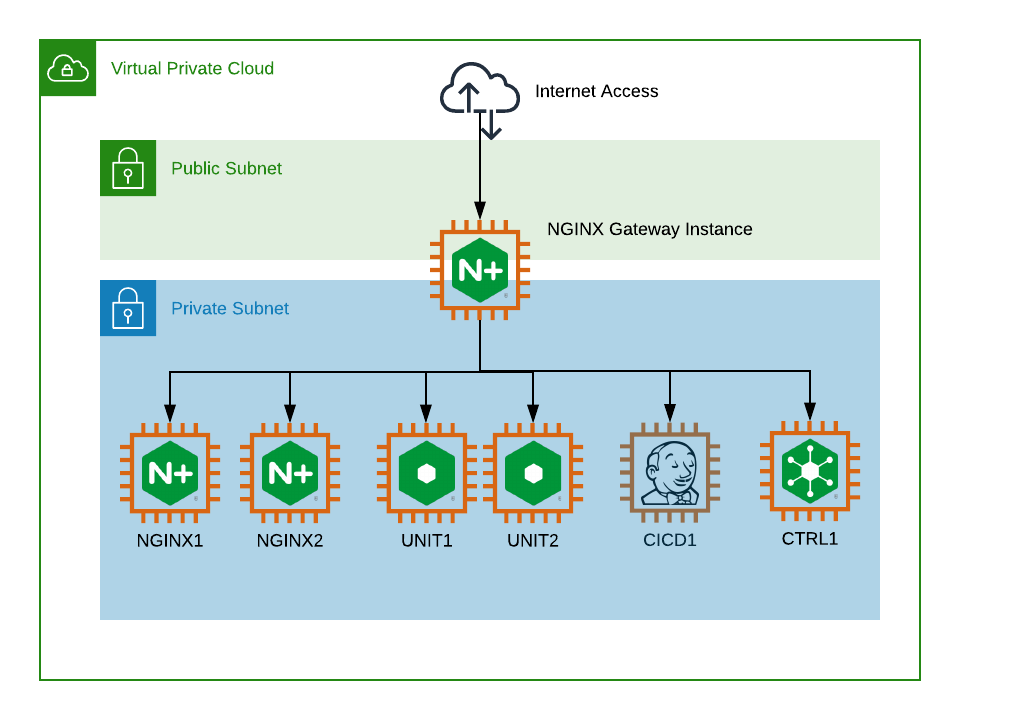
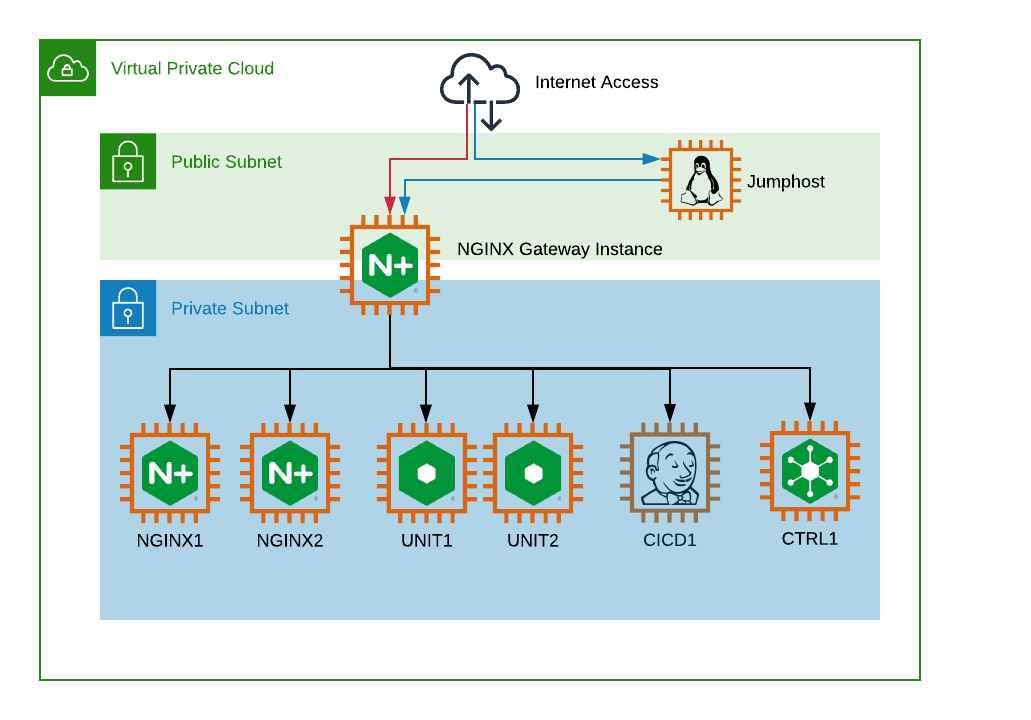
mv diagram to img folder

Changed region(s): [[0.0931, 0.0611, 0.8691, 0.4583], [0.1552, 0.4889, 0.7759, 0.5194]]

diff --git a/workdir/html/task0.html b/workdir/html/task0.html
@@ -443,7 +443,13 @@ body.book #toc,body.book #preamble,body.book h1.sect0,body.book .sect1>h2{page-b
 <div id="toctitle">Table of Contents</div>
 <ul class="sectlevel1">
 <li><a href="#_0_1_introduction">0.1 Introduction</a></li>
-<li><a href="#_0_2_getting_shell_access">0.2 Getting Shell Access</a></li>
+<li><a href="#_0_2_getting_access">0.2 Getting Access</a>
+<ul class="sectlevel2">
+<li><a href="#_0_2_1_direct_access">0.2.1 Direct Access</a></li>
+<li><a href="#_0_2_2_jumphost_access">0.2.2 Jumphost Access</a></li>
+</ul>
+</li>
+<li><a href="#_0_3_begin">0.3 Begin</a></li>
 </ul>
 </div>
 </div>
@@ -484,6 +490,11 @@ task we&#8217;ll cover Ansible basics, but first lets take a look at the environ
 with a public interface in a routeable public network, and a secondary inteface in a private network.</p>
 </div>
 <div class="paragraph">
+<p>You can either access the gateway directly using SSH and HTTPS, or if that is restricted you may access
+using RDP to the jumphost. The RDP password is the same as the Basic-Auth password used to access this
+site, and the username is <code>ec2-user</code>.</p>
+</div>
+<div class="paragraph">
 <p>All other machines in the course reside in the private network and will be accessed through the NGINX
 Plus instance running on the gateway.</p>
 </div>
@@ -494,12 +505,30 @@ with it&#8217;s hostname and password.</p>
 </div>
 </div>
 <div class="sect1">
-<h2 id="_0_2_getting_shell_access"><a class="link" href="#_0_2_getting_shell_access">0.2 Getting Shell Access</a></h2>
+<h2 id="_0_2_getting_access"><a class="link" href="#_0_2_getting_access">0.2 Getting Access</a></h2>
 <div class="sectionbody">
+<div class="sect2">
+<h3 id="_0_2_1_direct_access"><a class="link" href="#_0_2_1_direct_access">0.2.1 Direct Access</a></h3>
 <div class="paragraph">
 <p>The private key for gaining access to your workshop can be downloaded <a href="/secrets/">Here</a>
 You should find the SSH private key in both OpenSSH PEM and Putty PPK file formats.</p>
 </div>
+</div>
+<div class="sect2">
+<h3 id="_0_2_2_jumphost_access"><a class="link" href="#_0_2_2_jumphost_access">0.2.2 Jumphost Access</a></h3>
+<div class="paragraph">
+<p>Your jumphost should be accessable on the same stack number as this gateway. So for example,
+If you are on stack ws03.domain.com, then your jumphost will be on jump03.domain.com.</p>
+</div>
+<div class="paragraph">
+<p>Connect using your RDP client, with the username <code>ec2-user</code> and the same password as you used here.</p>
+</div>
+</div>
+</div>
+</div>
+<div class="sect1">
+<h2 id="_0_3_begin"><a class="link" href="#_0_3_begin">0.3 Begin</a></h2>
+<div class="sectionbody">
 <div class="paragraph">
 <p>Once you have both HTTPS and SSH access to the workshop please continue with <a href="task1.html">Task 1</a></p>
 </div>
@@ -520,7 +549,7 @@ You should find the SSH private key in both OpenSSH PEM and Putty PPK file forma
 </div>
 <div id="footer">
 <div id="footer-text">
-Last updated 2020-07-15 08:56:16 +0100
+Last updated 2020-08-19 10:01:04 +0100
 </div>
 </div>
 </body>
